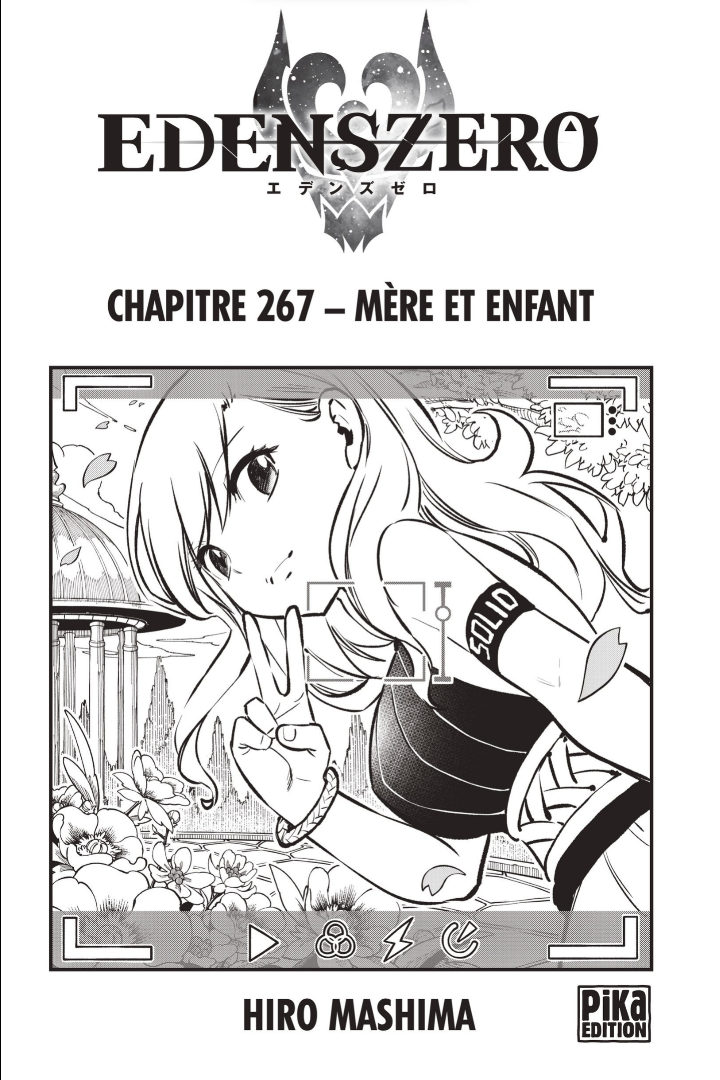
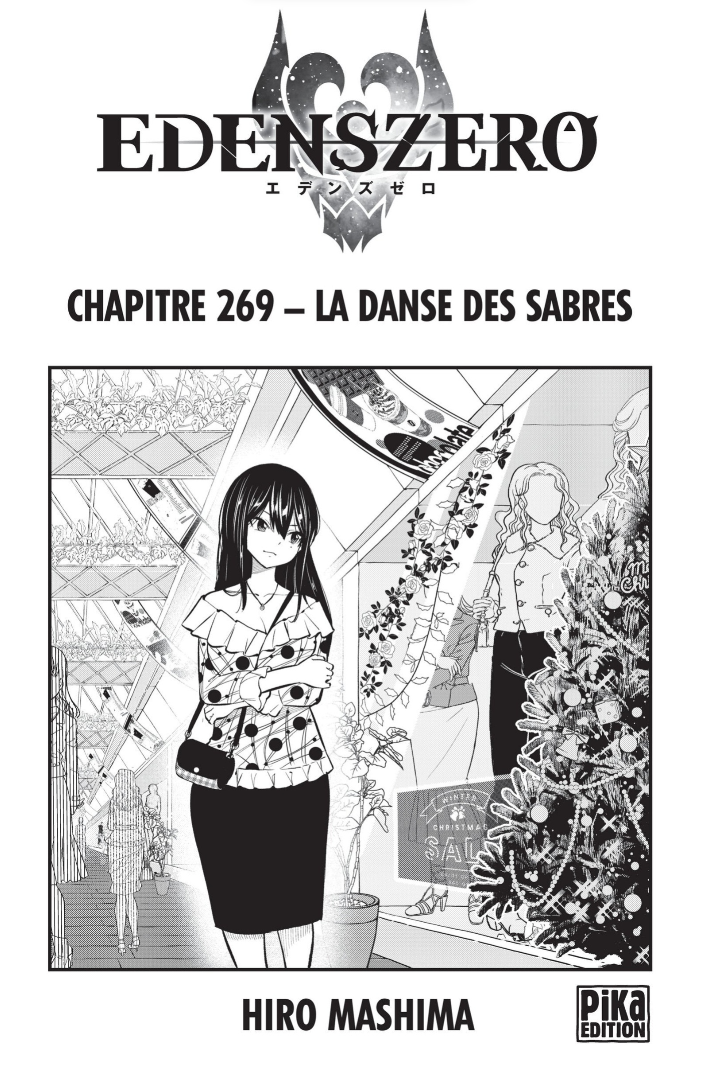
ajout chapitre 269

diff --git a/src/components/Lecture.js b/src/components/Lecture.js
@@ -15,17 +15,17 @@ const Lecture = () => {
     let pageNumber = 1;
     let idNumber = 1;
     let temp = [];
-    while (i < 40) {
+    while (i < 20) {
    
-      if (i === 21) {
-        pageNumber = 1;
-        idNumber = 1;
-      }
+      // if (i === 21) {
+      //   pageNumber = 1;
+      //   idNumber = 1;
+      // }
       temp.push({
         imgUrl: `${process.env.REACT_APP_IMG_URL}${imgNumber}.png`,
         num : pageNumber,
         id: idNumber,
-        double: i === 38 ? true : false
+        double: i === 16 ? true : false
       })
       pageNumber++;
       imgNumber++;

diff --git a/public/index.html b/public/index.html
@@ -24,7 +24,7 @@
       work correctly both with client-side routing and a non-root public URL.
       Learn how to configure a non-root public URL by running `npm run build`.
     -->
-    <title>Eden's Zero chapitre 267</title>
+    <title>Eden's Zero chapitre 269</title>
   </head>
   <body>
     <noscript>You need to enable JavaScript to run this app.</noscript>
